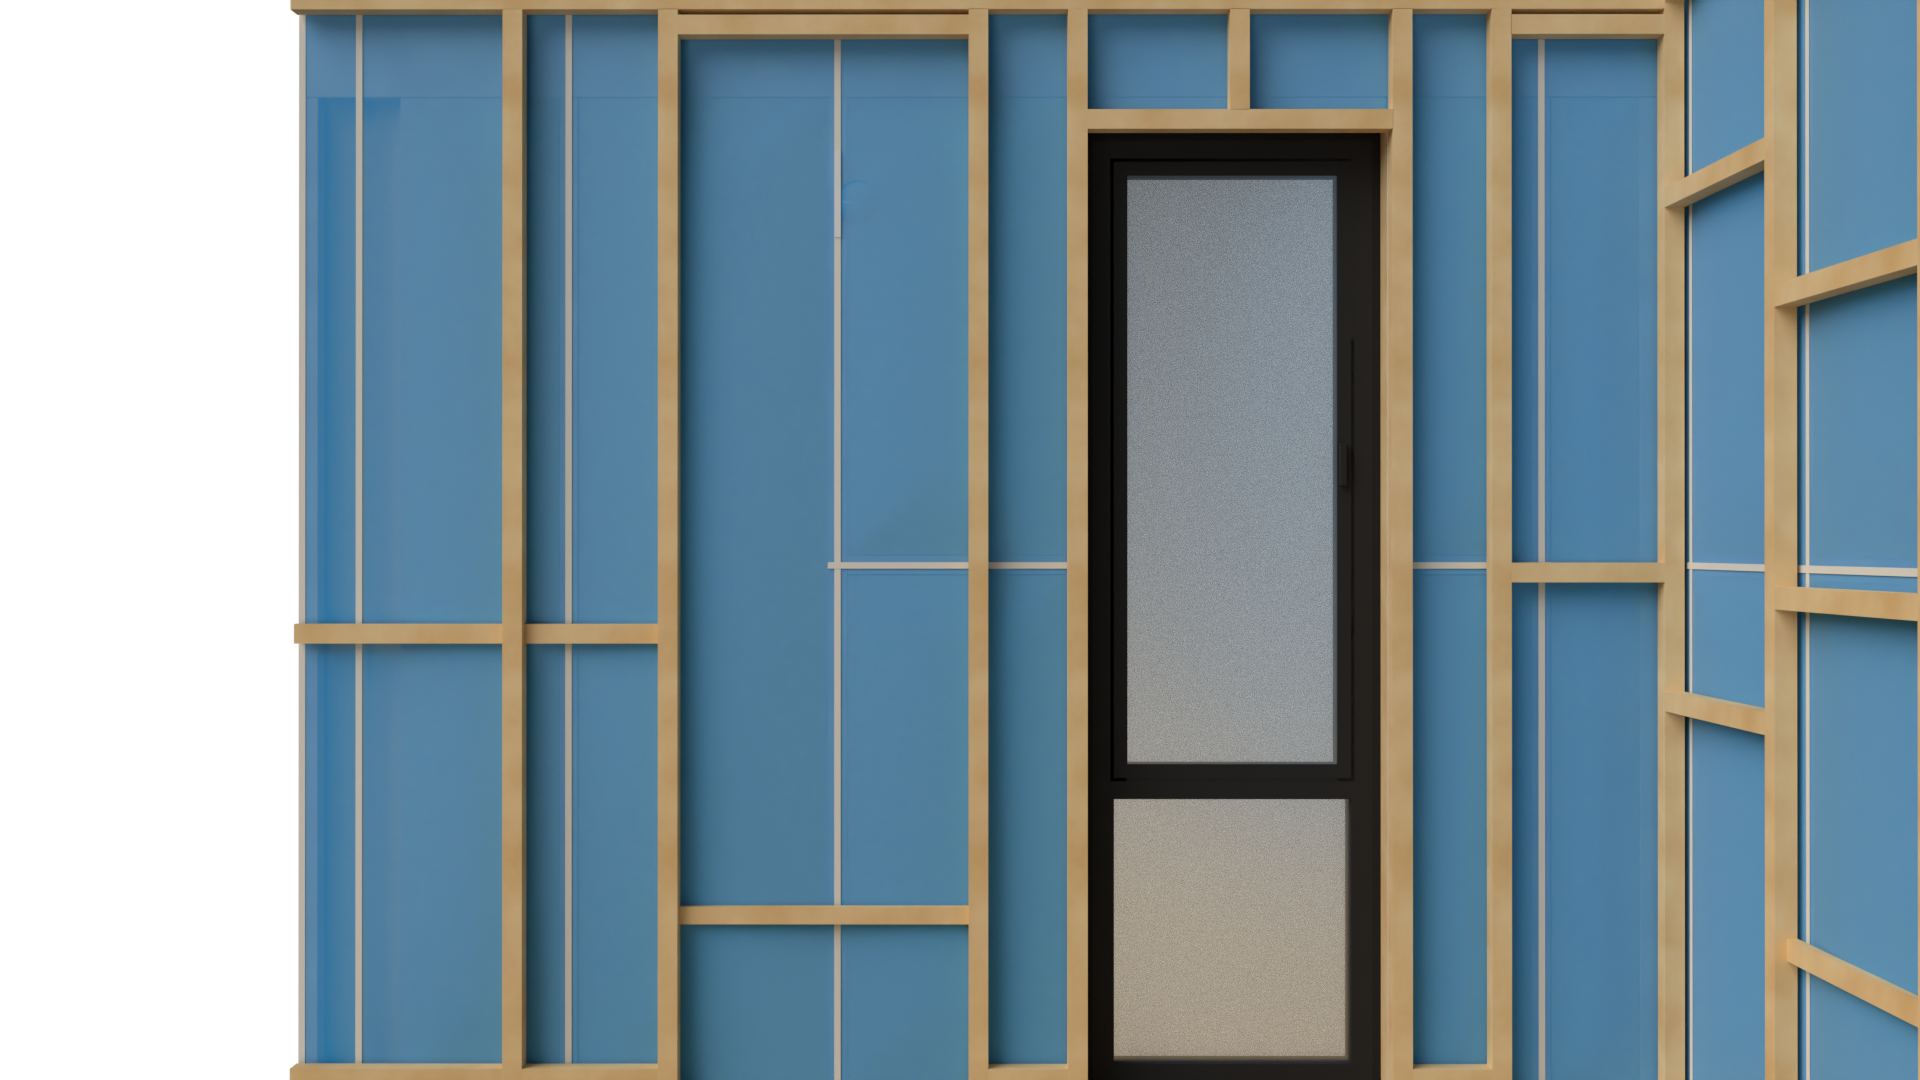
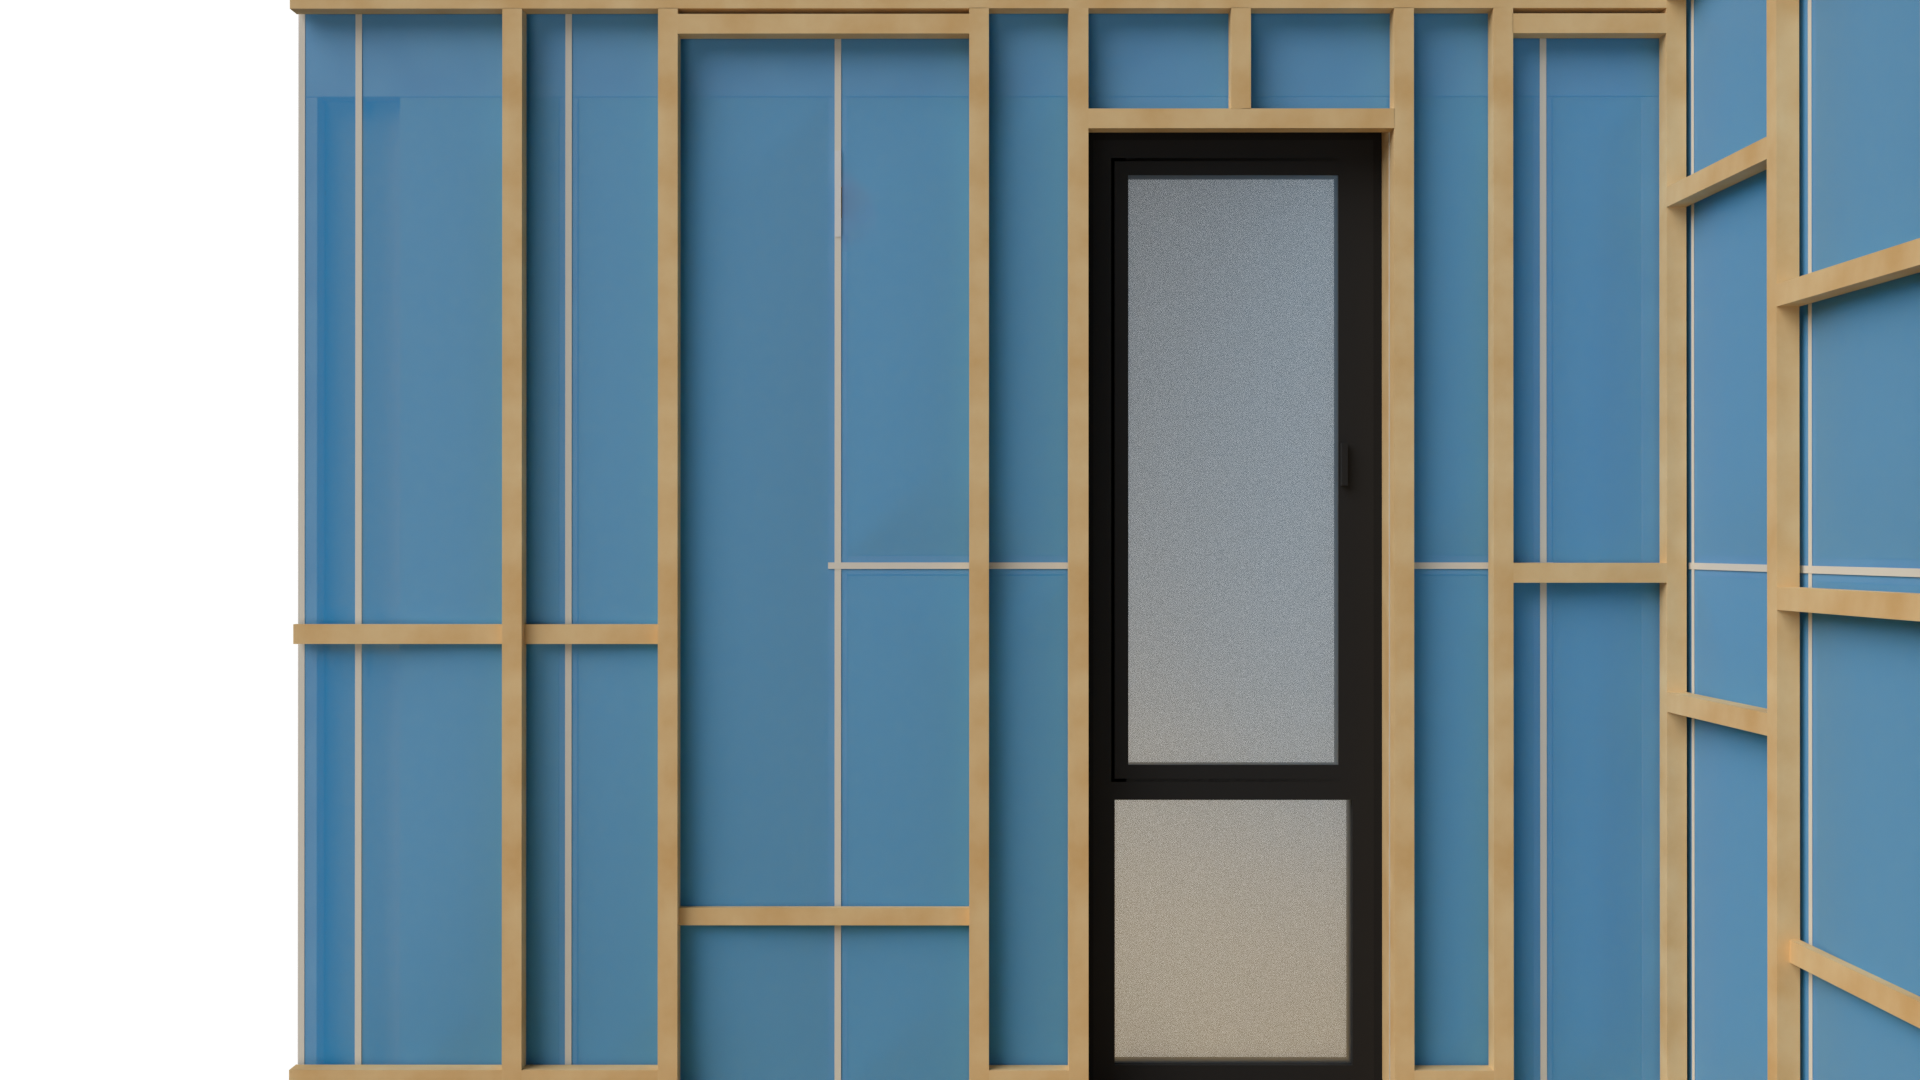
Add sequential interior finishing renders and captions

diff --git a/src/components/manufacture-module-scene.tsx b/src/components/manufacture-module-scene.tsx
@@ -14,12 +14,28 @@ const assemblyLayers = [
   { file: "ПК-1-2.png", alt: "Завершение сборки панелей модуля", start: 0.54, range: 0.34, height: 85, depth: 4 },
 ] as const;
 
+const finishingLayers = [
+  { file: "window+1-3.png", alt: "Установленные окна в модуле" },
+  { file: "ko-1-3.png", alt: "Внутренняя обрешётка первой стены" },
+  { file: "ko-1-5.png", alt: "Внутренняя обрешётка второй стены" },
+] as const;
+
 export function ManufactureModuleScene() {
   const sceneRef = useRef<HTMLDivElement>(null);
   const introRef = useRef<HTMLHeadingElement>(null);
   const noteRef = useRef<HTMLDivElement>(null);
   const firstNoteRef = useRef<HTMLParagraphElement>(null);
   const secondNoteRef = useRef<HTMLParagraphElement>(null);
+  const thirdNoteRef = useRef<HTMLParagraphElement>(null);
+  const fourthNoteRef = useRef<HTMLParagraphElement>(null);
+  const fifthNoteRef = useRef<HTMLParagraphElement>(null);
+  const sixthNoteRef = useRef<HTMLParagraphElement>(null);
+  const ceramicLayerRef = useRef<HTMLDivElement>(null);
+  const furnitureLayerRef = useRef<HTMLDivElement>(null);
+  const servicesLayerRef = useRef<HTMLDivElement>(null);
+  const gyprocLayerRef = useRef<HTMLDivElement>(null);
+  const masticLayerRef = useRef<HTMLDivElement>(null);
+  const finishingRefs = useRef<(HTMLDivElement | null)[]>([]);
   const jointRef = useRef<HTMLDivElement>(null);
   const frameCanvasRef = useRef<HTMLCanvasElement>(null);
   const assemblyRef = useRef<HTMLDivElement>(null);
@@ -42,6 +58,16 @@ export function ManufactureModuleScene() {
     let noteProgress = 0;
     let frameProgress = 0;
     let frameBlend = 0;
+    let finishingProgress = 0;
+    let finishingNoteProgress = 0;
+    let servicesNoteProgress = 0;
+    let servicesImageProgress = 0;
+    let gyprocProgress = 0;
+    let masticProgress = 0;
+    let ceramicProgress = 0;
+    let furnitureProgress = 0;
+    let ceramicNoteProgress = 0;
+    let gyprocNoteProgress = 0;
     let metrics = { top: 0, padding: 0, viewport: 0, sceneHeight: 0, introOffset: 0 };
     const sequence = createScrollFrameSequence(canvas, frameSequence.frames, () => schedule());
     const measure = () => {
@@ -98,7 +124,7 @@ export function ManufactureModuleScene() {
         firstNoteRef.current.style.transform = reducedMotion.matches ? "none" : `translate3d(0, ${(1 - reveal) * 16 - smooth(outgoing) * 10}px, 0)`;
       }
       if (secondNoteRef.current) {
-        secondNoteRef.current.style.opacity = String(smooth(incoming));
+        secondNoteRef.current.style.opacity = String(smooth(incoming) * (1 - smooth(clamp(finishingNoteProgress / 0.45))));
         secondNoteRef.current.style.transform = reducedMotion.matches ? "none" : `translate3d(0, ${(1 - smooth(incoming)) * 12}px, 0)`;
       }
       layers.forEach((layer, index) => {
@@ -132,7 +158,7 @@ export function ManufactureModuleScene() {
       const frameStart = viewport * 1.34;
       const desiredFrame = clamp((travelled - frameStart) / (viewport * 1.3));
       // Hand over a stationary first frame before allowing the camera to move.
-      const frameTarget = frameBlend === 1 ? desiredFrame : 0;
+      const frameTarget = finishingProgress > 0 || servicesImageProgress > 0 || gyprocProgress > 0 || masticProgress > 0 || ceramicProgress > 0 || furnitureProgress > 0 ? 1 : frameBlend === 1 ? desiredFrame : 0;
       // Spread discrete wheel ticks across a few paints, while retaining immediate seek priority.
       frameProgress += (frameTarget - frameProgress) * (reducedMotion.matches ? 1 : 1 - Math.exp(-elapsed / 70));
       if (Math.abs(frameTarget - frameProgress) < 0.0005) frameProgress = frameTarget;
@@ -149,7 +175,85 @@ export function ManufactureModuleScene() {
       // Source-over compositing: fading both transparent scenes exposes the page
       // (at 50/50 their combined opacity is only 75%). Keep the backing scene opaque.
       if (assemblyRef.current) assemblyRef.current.style.opacity = frameBlend === 1 ? "0" : "1";
-      showNote(travelled >= wallStart ? 2 : reveal > 0 ? 1 : 0);
+      // Keep the final camera pose while installing overlays, including on reverse scroll.
+      const finalFrameReady = canvas.dataset.frame === String(frameSequence.frames.length - 1) && frameBlend === 1;
+      const finishNoteTarget = finalFrameReady ? clamp((travelled / viewport - 2.74) / 0.18) : 0;
+      finishingNoteProgress += (finishNoteTarget - finishingNoteProgress) * (reducedMotion.matches ? 1 : 1 - Math.exp(-elapsed / 100));
+      if (Math.abs(finishNoteTarget - finishingNoteProgress) < 0.001) finishingNoteProgress = finishNoteTarget;
+      if (finishingNoteProgress !== finishNoteTarget) moving = true;
+      if (thirdNoteRef.current) {
+        const visible = smooth(clamp((finishingNoteProgress - 0.55) / 0.45));
+        thirdNoteRef.current.style.opacity = String(visible * (1 - smooth(clamp(servicesNoteProgress / 0.45))));
+        thirdNoteRef.current.style.transform = reducedMotion.matches ? "none" : `translate3d(0, ${(1 - visible) * 12}px, 0)`;
+      }
+      const finishTarget = finalFrameReady ? clamp((travelled / viewport - 2.94) / 0.9) : 0;
+      finishingProgress += (finishTarget - finishingProgress) * (reducedMotion.matches ? 1 : 1 - Math.exp(-elapsed / 100));
+      if (Math.abs(finishTarget - finishingProgress) < 0.001) finishingProgress = finishTarget;
+      if (finishingProgress !== finishTarget) moving = true;
+      finishingRefs.current.forEach((layer, index) => {
+        if (!layer) return;
+        // Three non-overlapping scroll intervals: window, window wall, right wall.
+        const progress = clamp(finishingProgress * 3 - index);
+        const visible = smooth(progress);
+        // Fade each stationary render over the fully opaque preceding stage.
+        // Never fade the backing scene out: that would expose the page background.
+        layer.style.opacity = String(visible);
+        layer.style.transform = "none";
+        layer.style.clipPath = "none";
+      });
+      const servicesTarget = finishingProgress === 1 ? clamp((travelled / viewport - 3.94) / 0.18) : 0;
+      servicesNoteProgress += (servicesTarget - servicesNoteProgress) * (reducedMotion.matches ? 1 : 1 - Math.exp(-elapsed / 100));
+      if (Math.abs(servicesTarget - servicesNoteProgress) < 0.001) servicesNoteProgress = servicesTarget;
+      if (servicesNoteProgress !== servicesTarget) moving = true;
+      if (fourthNoteRef.current) {
+        const visible = smooth(clamp((servicesNoteProgress - 0.55) / 0.45));
+        fourthNoteRef.current.style.opacity = String(visible * (1 - smooth(clamp(gyprocNoteProgress / 0.45))));
+        fourthNoteRef.current.style.transform = reducedMotion.matches ? "none" : `translate3d(0, ${(1 - visible) * 12}px, 0)`;
+      }
+      const servicesImageTarget = finishingProgress === 1 ? clamp((travelled / viewport - 4.14) / 0.28) : 0;
+      servicesImageProgress += (servicesImageTarget - servicesImageProgress) * (reducedMotion.matches ? 1 : 1 - Math.exp(-elapsed / 100));
+      if (Math.abs(servicesImageTarget - servicesImageProgress) < 0.001) servicesImageProgress = servicesImageTarget;
+      if (servicesImageProgress !== servicesImageTarget) moving = true;
+      if (servicesLayerRef.current) servicesLayerRef.current.style.opacity = String(smooth(servicesImageProgress));
+      const gyprocNoteTarget = servicesImageProgress === 1 ? clamp((travelled / viewport - 4.44) / 0.18) : 0;
+      gyprocNoteProgress += (gyprocNoteTarget - gyprocNoteProgress) * (reducedMotion.matches ? 1 : 1 - Math.exp(-elapsed / 100));
+      if (Math.abs(gyprocNoteTarget - gyprocNoteProgress) < 0.001) gyprocNoteProgress = gyprocNoteTarget;
+      if (gyprocNoteProgress !== gyprocNoteTarget) moving = true;
+      if (fifthNoteRef.current) {
+        const visible = smooth(clamp((gyprocNoteProgress - 0.55) / 0.45));
+        fifthNoteRef.current.style.opacity = String(visible * (1 - smooth(clamp(ceramicNoteProgress / 0.45))));
+        fifthNoteRef.current.style.transform = reducedMotion.matches ? "none" : `translate3d(0, ${(1 - visible) * 12}px, 0)`;
+      }
+      const gyprocTarget = servicesImageProgress === 1 ? clamp((travelled / viewport - 4.64) / 0.28) : 0;
+      gyprocProgress += (gyprocTarget - gyprocProgress) * (reducedMotion.matches ? 1 : 1 - Math.exp(-elapsed / 100));
+      if (Math.abs(gyprocTarget - gyprocProgress) < 0.001) gyprocProgress = gyprocTarget;
+      if (gyprocProgress !== gyprocTarget) moving = true;
+      if (gyprocLayerRef.current) gyprocLayerRef.current.style.opacity = String(smooth(gyprocProgress));
+      const masticTarget = gyprocProgress === 1 ? clamp((travelled / viewport - 5.04) / 0.28) : 0;
+      masticProgress += (masticTarget - masticProgress) * (reducedMotion.matches ? 1 : 1 - Math.exp(-elapsed / 100));
+      if (Math.abs(masticTarget - masticProgress) < 0.001) masticProgress = masticTarget;
+      if (masticProgress !== masticTarget) moving = true;
+      if (masticLayerRef.current) masticLayerRef.current.style.opacity = String(smooth(masticProgress));
+      const ceramicNoteTarget = masticProgress === 1 ? clamp((travelled / viewport - 5.44) / 0.18) : 0;
+      ceramicNoteProgress += (ceramicNoteTarget - ceramicNoteProgress) * (reducedMotion.matches ? 1 : 1 - Math.exp(-elapsed / 100));
+      if (Math.abs(ceramicNoteTarget - ceramicNoteProgress) < 0.001) ceramicNoteProgress = ceramicNoteTarget;
+      if (ceramicNoteProgress !== ceramicNoteTarget) moving = true;
+      if (sixthNoteRef.current) {
+        const visible = smooth(clamp((ceramicNoteProgress - 0.55) / 0.45));
+        sixthNoteRef.current.style.opacity = String(visible);
+        sixthNoteRef.current.style.transform = reducedMotion.matches ? "none" : `translate3d(0, ${(1 - visible) * 12}px, 0)`;
+      }
+      const ceramicTarget = masticProgress === 1 ? clamp((travelled / viewport - 5.64) / 0.28) : 0;
+      ceramicProgress += (ceramicTarget - ceramicProgress) * (reducedMotion.matches ? 1 : 1 - Math.exp(-elapsed / 100));
+      if (Math.abs(ceramicTarget - ceramicProgress) < 0.001) ceramicProgress = ceramicTarget;
+      if (ceramicProgress !== ceramicTarget) moving = true;
+      if (ceramicLayerRef.current) ceramicLayerRef.current.style.opacity = String(smooth(ceramicProgress));
+      const furnitureTarget = ceramicProgress === 1 ? clamp((travelled / viewport - 6.04) / 0.28) : 0;
+      furnitureProgress += (furnitureTarget - furnitureProgress) * (reducedMotion.matches ? 1 : 1 - Math.exp(-elapsed / 100));
+      if (Math.abs(furnitureTarget - furnitureProgress) < 0.001) furnitureProgress = furnitureTarget;
+      if (furnitureProgress !== furnitureTarget) moving = true;
+      if (furnitureLayerRef.current) furnitureLayerRef.current.style.opacity = String(smooth(furnitureProgress));
+      showNote(ceramicNoteProgress > 0.55 ? 6 : gyprocNoteProgress > 0.55 ? 5 : servicesNoteProgress > 0.55 ? 4 : finishingNoteProgress > 0.55 ? 3 : travelled >= wallStart ? 2 : reveal > 0 ? 1 : 0);
       if (moving) frame = window.requestAnimationFrame(animate);
       else lastTime = 0;
     };
@@ -177,6 +281,10 @@ export function ManufactureModuleScene() {
       <div className="manufacture-module__note" ref={noteRef} data-step={noteStep}>
         <p ref={firstNoteRef} data-visible={noteStep === 1}>Сначала панели будущего модуля<br className="manufacture-module__text-break" /> поступают на&nbsp;участок сборки.</p>
         <p ref={secondNoteRef} data-visible={noteStep === 2}>На&nbsp;участке сборки из&nbsp;готовых панелей<br />собирается модуль.</p>
+        <p className="manufacture-module__installation-note" ref={thirdNoteRef} data-visible={noteStep === 3}><span>В&nbsp;собранном модуле устанавливаются окна,</span>{" "}<span>монтируется внутренняя обрешетка</span></p>
+        <p className="manufacture-module__installation-note" ref={fourthNoteRef} data-visible={noteStep === 4}><span>Прокладываются все инженерные коммуникации</span>{" "}<span>и&nbsp;делаются закладные</span></p>
+        <p className="manufacture-module__installation-note" ref={fifthNoteRef} data-visible={noteStep === 5}><span>В&nbsp;санузлах монтируется влагостойкий гипсокартон</span>{" "}<span>и&nbsp;делается гидроизоляция</span></p>
+        <p className="manufacture-module__installation-note" ref={sixthNoteRef} data-visible={noteStep === 6}><span>Укладывается керамогранит,</span>{" "}<span>устанавливается сантехника и&nbsp;мебель</span></p>
       </div>
       <div className="manufacture-module__scene" ref={sceneRef} style={{ isolation: "isolate" }}>
         <canvas ref={frameCanvasRef} width={frameSequence.width} height={frameSequence.height} className="manufacture-module__video" role="img" aria-label="Приближение к собранному модулю при прокрутке" />
@@ -196,6 +304,26 @@ export function ManufactureModuleScene() {
             <image href="/img/manufacturing/1-5.png" width="1920" height="1080" clipPath={`url(#${jointClipId})`} />
           </svg>
         </div>
+        </div>
+        {finishingLayers.map((layer, index) => (
+          <div className="manufacture-module__wall" key={layer.file} style={{ zIndex: 9 + index }} ref={element => { finishingRefs.current[index] = element; }}>
+            <Image src={`/img/manufacturing/${layer.file}`} alt={layer.alt} fill sizes="(max-width: 719px) 150vw, 1152px" unoptimized />
+          </div>
+        ))}
+        <div className="manufacture-module__wall" ref={servicesLayerRef} style={{ zIndex: 12 }}>
+          <Image src="/img/manufacturing/tube.png" alt="Инженерные коммуникации и закладные в модуле" fill sizes="(max-width: 719px) 150vw, 1152px" unoptimized />
+        </div>
+        <div className="manufacture-module__wall" ref={gyprocLayerRef} style={{ zIndex: 13 }}>
+          <Image src="/img/manufacturing/gyproc.png" alt="Внутренняя обшивка модуля гипсокартоном" fill sizes="(max-width: 719px) 150vw, 1152px" unoptimized />
+        </div>
+        <div className="manufacture-module__wall" ref={masticLayerRef} style={{ zIndex: 14 }}>
+          <Image src="/img/manufacturing/mastic.png" alt="Гидроизоляция мокрых зон санузла" fill sizes="(max-width: 719px) 150vw, 1152px" unoptimized />
+        </div>
+        <div className="manufacture-module__wall" ref={ceramicLayerRef} style={{ zIndex: 15 }}>
+          <Image src="/img/manufacturing/ceramic.png" alt="Керамогранит, сантехника и мебель в санузле" fill sizes="(max-width: 719px) 150vw, 1152px" unoptimized />
+        </div>
+        <div className="manufacture-module__wall" ref={furnitureLayerRef} style={{ zIndex: 16 }}>
+          <Image src="/img/manufacturing/furniture.png" alt="Установленная сантехника и мебель в санузле" fill sizes="(max-width: 719px) 150vw, 1152px" unoptimized />
         </div>
       </div>
     </>

diff --git a/src/app/styles.css b/src/app/styles.css
@@ -1386,7 +1386,7 @@ a {
 .section.manufacture-dispatch { padding-bottom: 0; background: #fff; }
 .section.manufacture-routes { background: var(--page); }
 
-.section.manufacture-module { min-height: 400svh; }
+.section.manufacture-module { min-height: 740svh; }
 .manufacture-module__video {
   position: absolute;
   inset: 0;
@@ -1448,6 +1448,12 @@ a {
   opacity: 0;
   transform: translateY(14px);
   transition: none;
+}
+.manufacture-module__note:has(.manufacture-module__installation-note) { max-width: 100%; }
+.manufacture-module__installation-note span { display: block; }
+@media (min-width: 1000px) {
+  .manufacture-module__installation-note span { white-space: nowrap; }
+  .manufacture-module__note p.manufacture-module__installation-note { font-size: clamp(24px, 2.6vw, 40px); }
 }
 @media (prefers-reduced-motion: reduce) {
   .manufacture-module__note p, .manufacture-module__intro h2 { transform: none; transition: none; }
